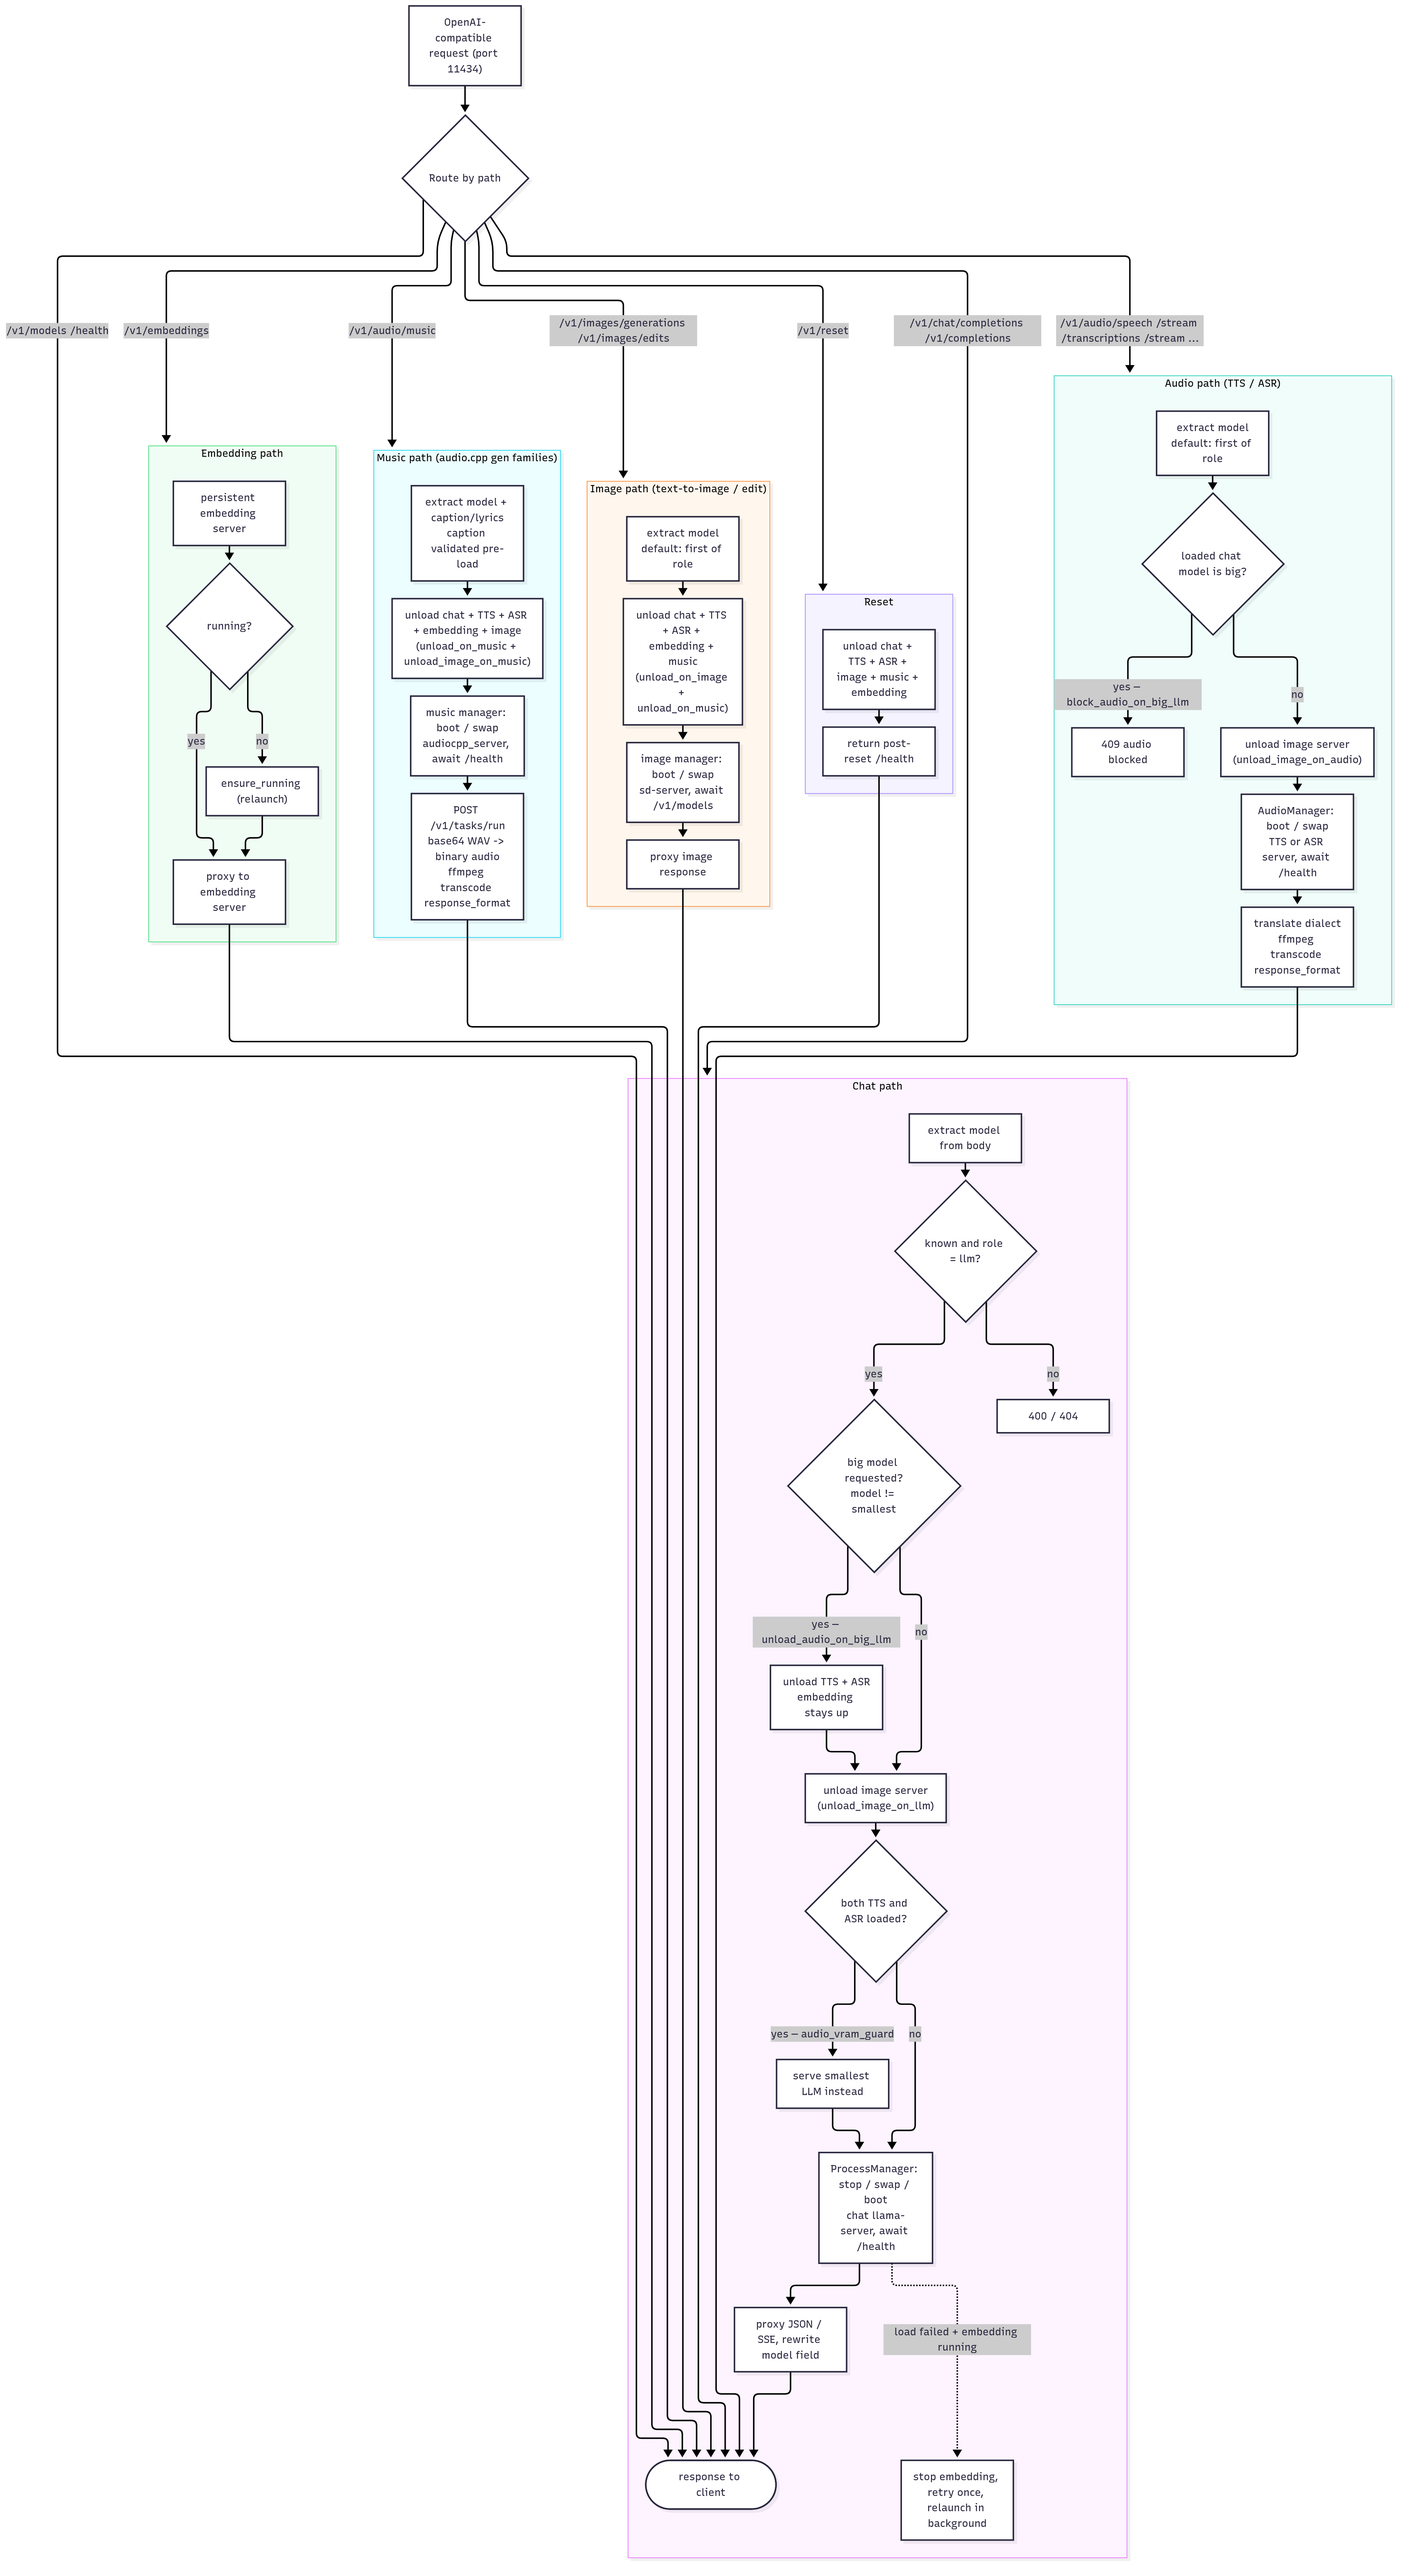
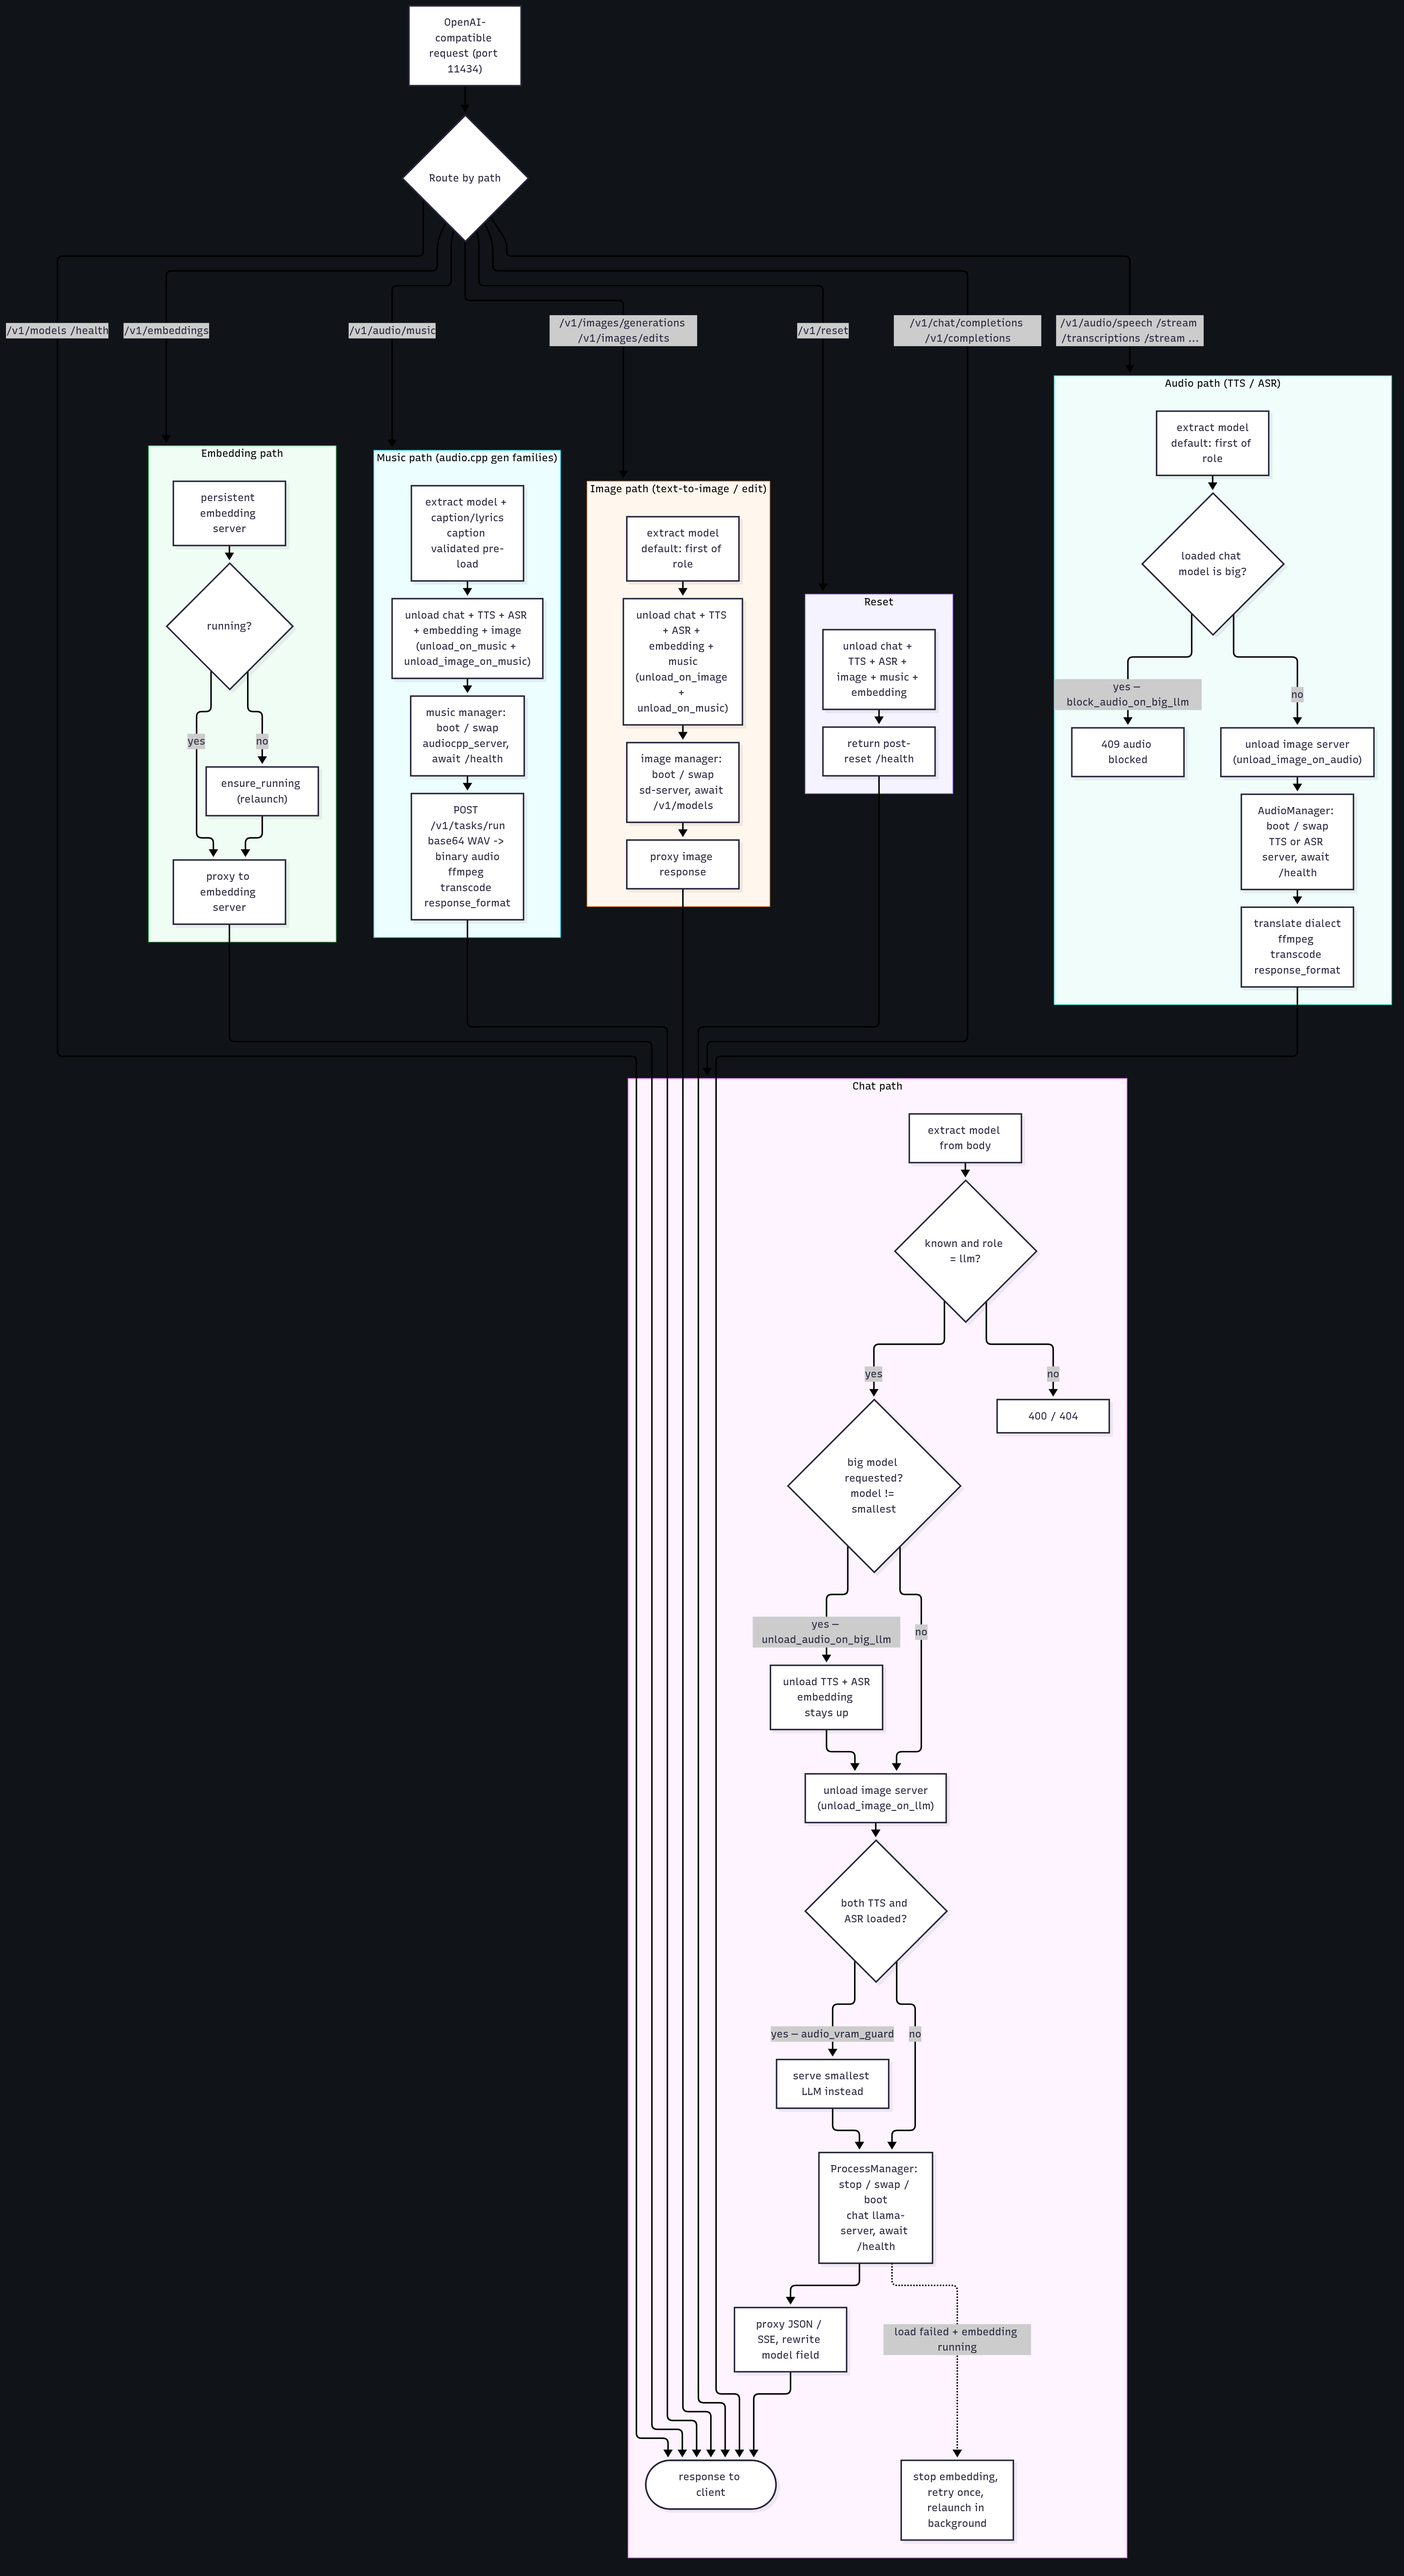
dockerfile/readme: document all published ports (11434/1234/9090 aliases of one listener)

diff --git a/README.md b/README.md
@@ -503,8 +503,15 @@ MODEL_ROOT=/opt/models ./scripts/download-models.sh flux-schnell flux-vae flux-c
 Requirements: Docker with the NVIDIA container runtime on a CUDA host, and
 the model weights volume (default `/opt/models`, override with `MODEL_ROOT`).
 Keys/settings come from the same `.env` surface as the local build
-(`LLAMASWAP_API_KEY`, `LLAMASWAP_PORT`, ...). The compose file publishes
-`11434`, `9090` and `1234`, all mapped to the container's `11434`.
+(`LLAMASWAP_API_KEY`, `LLAMASWAP_PORT`, ...).
+
+Published ports — one listener (container `11434`), three host aliases:
+
+| Port | Purpose |
+|---|---|
+| `11434` | OpenAI-compatible API + admin dashboard (Ollama-style port; overridable via `LLAMASWAP_PORT`) |
+| `1234` | llama.cpp's default port — point llama.cpp clients straight at it |
+| `9090` | legacy graphify port kept for existing integrations |
 
 Verify:
 
